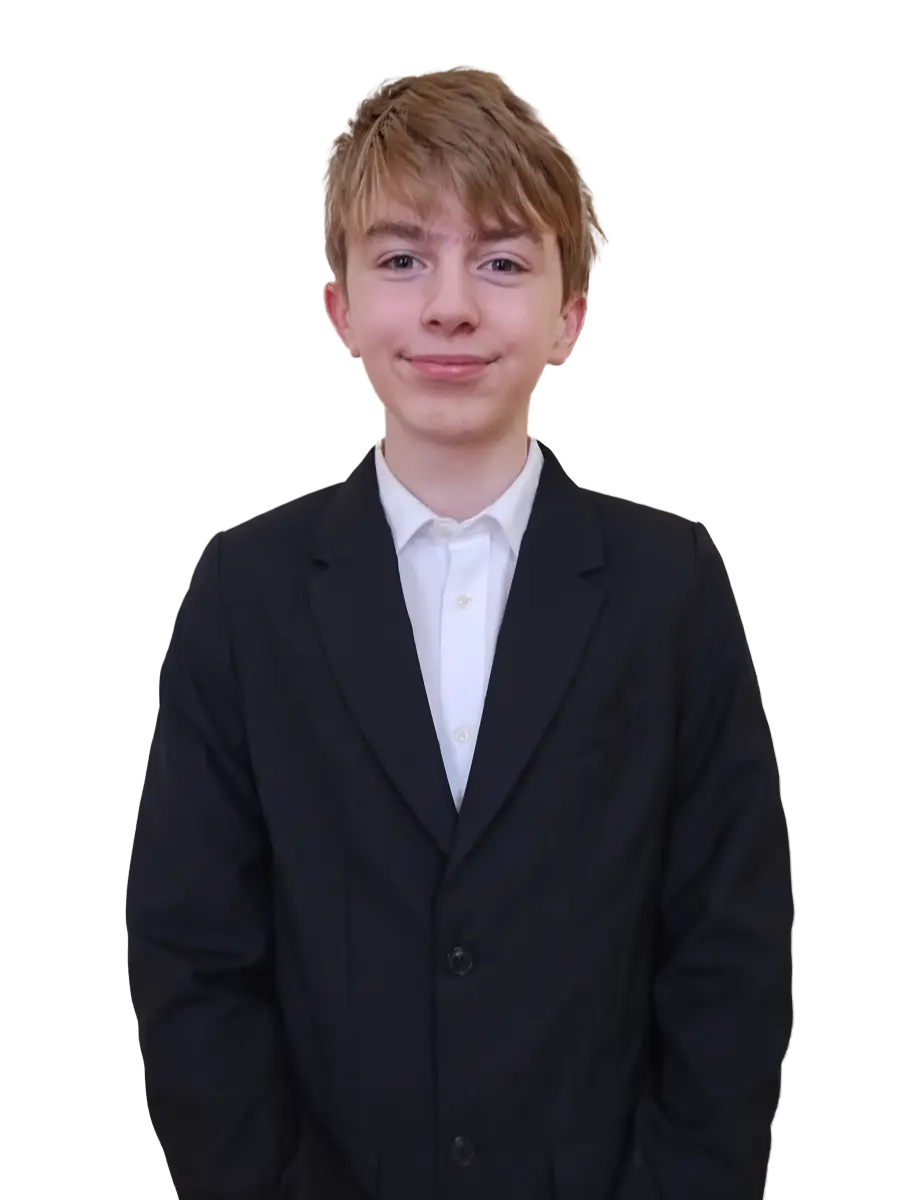
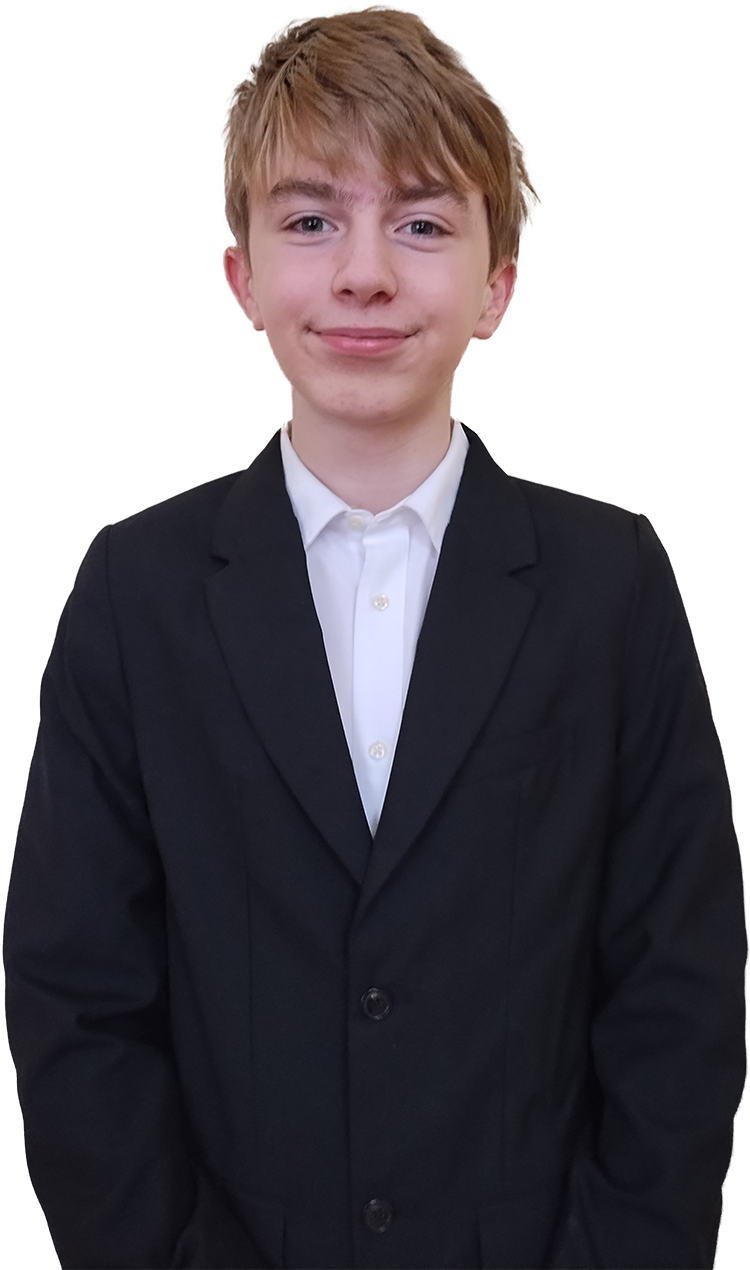
update headshot sizing and styles on home page

Changed region(s): [[0.0, 0.0, 1.0, 1.0], [0.4907, 0.7708, 0.5213, 0.8017], [0.276, 0.7092, 0.3067, 0.74]]

diff --git a/static/home.css b/static/home.css
@@ -3,7 +3,7 @@
     align-items: stretch;
     gap: 20px;
     margin-top: 20px;
-    margin-bottom: 20px;
+    margin-bottom: 0;
 }
 
 .headshot {
@@ -13,26 +13,31 @@
 }
 
 .headshot img {
-    max-width: 50vw;
-    max-height: 50vh;
-    border: var(--border-standard);
-    transition: border-color 0.25s;
-}
-
-.headshot img:hover {
-    border-color: var(--color-accent);
+    width: 375px;
+    max-height: 100vh;
+    aspect-ratio: 13/22;
+    object-fit: contain;
+    border: none;
 }
 
 .intro-container h2 {
-    font-size: 3rem;
+    font-size: 5rem;
     margin-top: 0;
     font-family: var(--font-secondary);
     opacity: 0;
     animation: shadow-drift-down 2.5s cubic-bezier(0.22, 1, 0.36, 1) both;
+
+    @media (max-width: 500px) {
+        font-size: 3rem;
+    }
 }
 
 .intro-container p {
-    font-size: clamp(0.8rem, 1.7rem, 5vmin);
+    font-size: 2rem;
+
+    @media (max-width: 500px) {
+        font-size: 1.2rem;
+    }
     opacity: 0;
     animation: shadow-drift-left 1.8s cubic-bezier(0.2, 0.8, 0.2, 1) forwards;
 }
@@ -45,11 +50,10 @@
     animation-delay: 0.5s;
 }
 
-.headshot,
 .intro-text {
     display: flex;
     flex-direction: column;
-    padding: 10px;
+    padding: 10px 10px 10px 0;
     overflow-wrap: break-word;
     flex-basis: 0;
     flex-grow: 1;
@@ -152,7 +156,7 @@ h1 .fall:nth-child(5) {
         transform: translate(-6rem, 0);
     }
 
-    60% {
+    10% {
         opacity: 1;
     }
 
@@ -214,6 +218,7 @@ h1 .fall:nth-child(5) {
 article {
     animation: slide-up 1.6s cubic-bezier(0, 0.8, 0.2, 1) both;
     width: 100%;
+    margin-top: 0;
     max-width: 100%;
     text-align: center;
     flex-shrink: 1;
